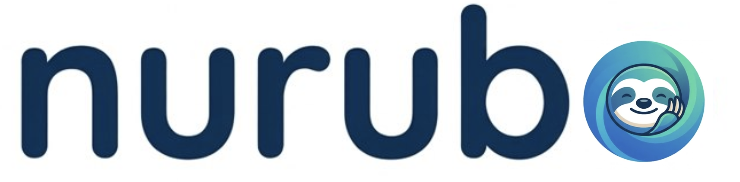
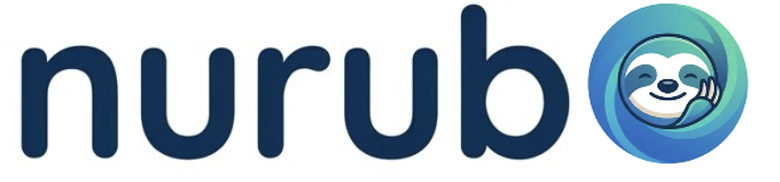
Enlarge only the sloth O in the header wordmark
Restore the header logo height and scale the sloth O to about 1.3x so it
matches the height of the b.

Claude-Session: https://claude.ai/code/session_01C9rJa3J5UaXuusBAGe8Wjm

diff --git a/test/index.html b/test/index.html
@@ -39,7 +39,7 @@ body::before{content:"";position:fixed;inset:0 0 auto;height:env(safe-area-inset
 header.site{position:sticky;top:env(safe-area-inset-top,0px);z-index:5;background:color-mix(in srgb,var(--paper) 92%,transparent);backdrop-filter:blur(8px);border-bottom:1px solid var(--line)}
 header.site .wrap{display:flex;align-items:center;justify-content:space-between;gap:16px;padding-block:10px}
 .brand{display:flex;align-items:center;text-decoration:none}
-.brand img{height:56px;width:auto;display:block}
+.brand img{height:36px;width:auto;display:block}
 nav ul{display:flex;gap:4px;list-style:none;margin:0;padding:0;flex-wrap:wrap}
 nav a{display:block;padding:6px 12px;border-radius:999px;text-decoration:none;color:var(--ink-soft);font-weight:500;font-size:.92rem}
 nav a:hover{background:var(--mist);color:var(--ink)}
@@ -172,7 +172,7 @@ footer .motto{font-family:var(--display);font-weight:700;letter-spacing:.12em;co
 }
 @media (max-width:440px){
   .topics{grid-template-columns:1fr}
-  .brand img{height:36px}
+  .brand img{height:30px}
 }
 
 /* movie & sns (added 2026-11-01) */
@@ -219,7 +219,7 @@ footer .flinks a:hover{color:var(--blue)}
 
 <header class="site">
   <div class="wrap">
-    <a class="brand" href="#top"><img src="../images/nurubo-wordmark.png" alt="nurubo" width="740" height="182"></a>
+    <a class="brand" href="#top"><img src="../images/nurubo-wordmark.png" alt="nurubo" width="780" height="182"></a>
     <nav aria-label="ページ内メニュー">
       <ul>
         <li><a href="#help">できること</a></li>

diff --git a/index.html b/index.html
@@ -38,7 +38,7 @@ body::before{content:"";position:fixed;inset:0 0 auto;height:env(safe-area-inset
 header.site{position:sticky;top:env(safe-area-inset-top,0px);z-index:5;background:color-mix(in srgb,var(--paper) 92%,transparent);backdrop-filter:blur(8px);border-bottom:1px solid var(--line)}
 header.site .wrap{display:flex;align-items:center;justify-content:space-between;gap:16px;padding-block:10px}
 .brand{display:flex;align-items:center;text-decoration:none}
-.brand img{height:56px;width:auto;display:block}
+.brand img{height:36px;width:auto;display:block}
 nav ul{display:flex;gap:4px;list-style:none;margin:0;padding:0;flex-wrap:wrap}
 nav a{display:block;padding:6px 12px;border-radius:999px;text-decoration:none;color:var(--ink-soft);font-weight:500;font-size:.92rem}
 nav a:hover{background:var(--mist);color:var(--ink)}
@@ -170,7 +170,7 @@ footer .motto{font-family:var(--display);font-weight:700;letter-spacing:.12em;co
 }
 @media (max-width:440px){
   .topics{grid-template-columns:1fr}
-  .brand img{height:36px}
+  .brand img{height:30px}
 }
 
 /* movie & sns (added 2026-11-01) */
@@ -216,7 +216,7 @@ footer .flinks a:hover{color:var(--blue)}
 
 <header class="site">
   <div class="wrap">
-    <a class="brand" href="#top"><img src="images/nurubo-wordmark.png" alt="nurubo" width="740" height="182"></a>
+    <a class="brand" href="#top"><img src="images/nurubo-wordmark.png" alt="nurubo" width="780" height="182"></a>
     <nav aria-label="ページ内メニュー">
       <ul>
         <li><a href="#help">できること</a></li>
